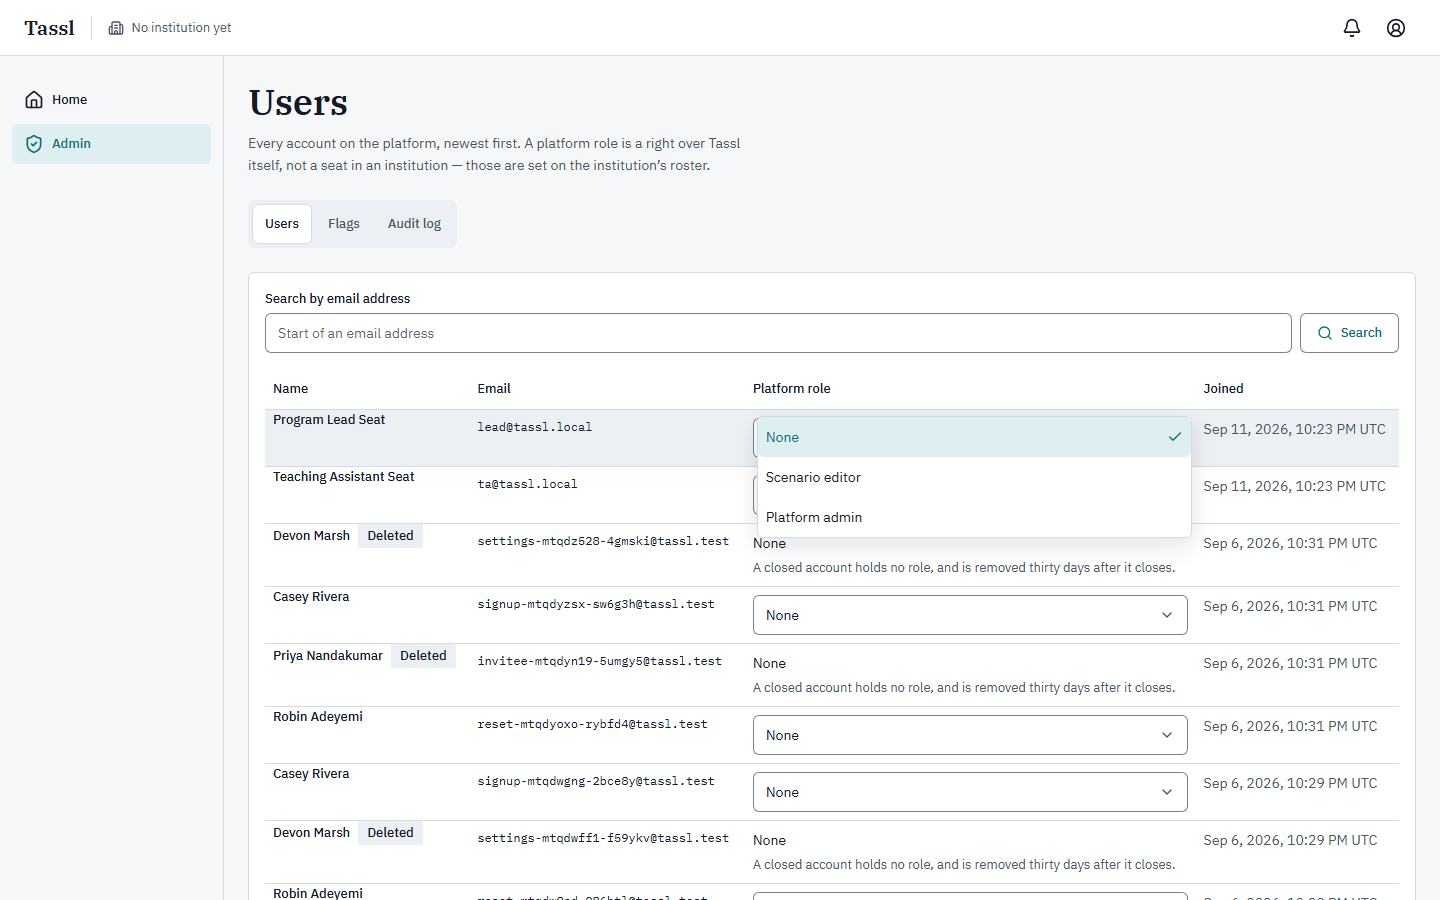
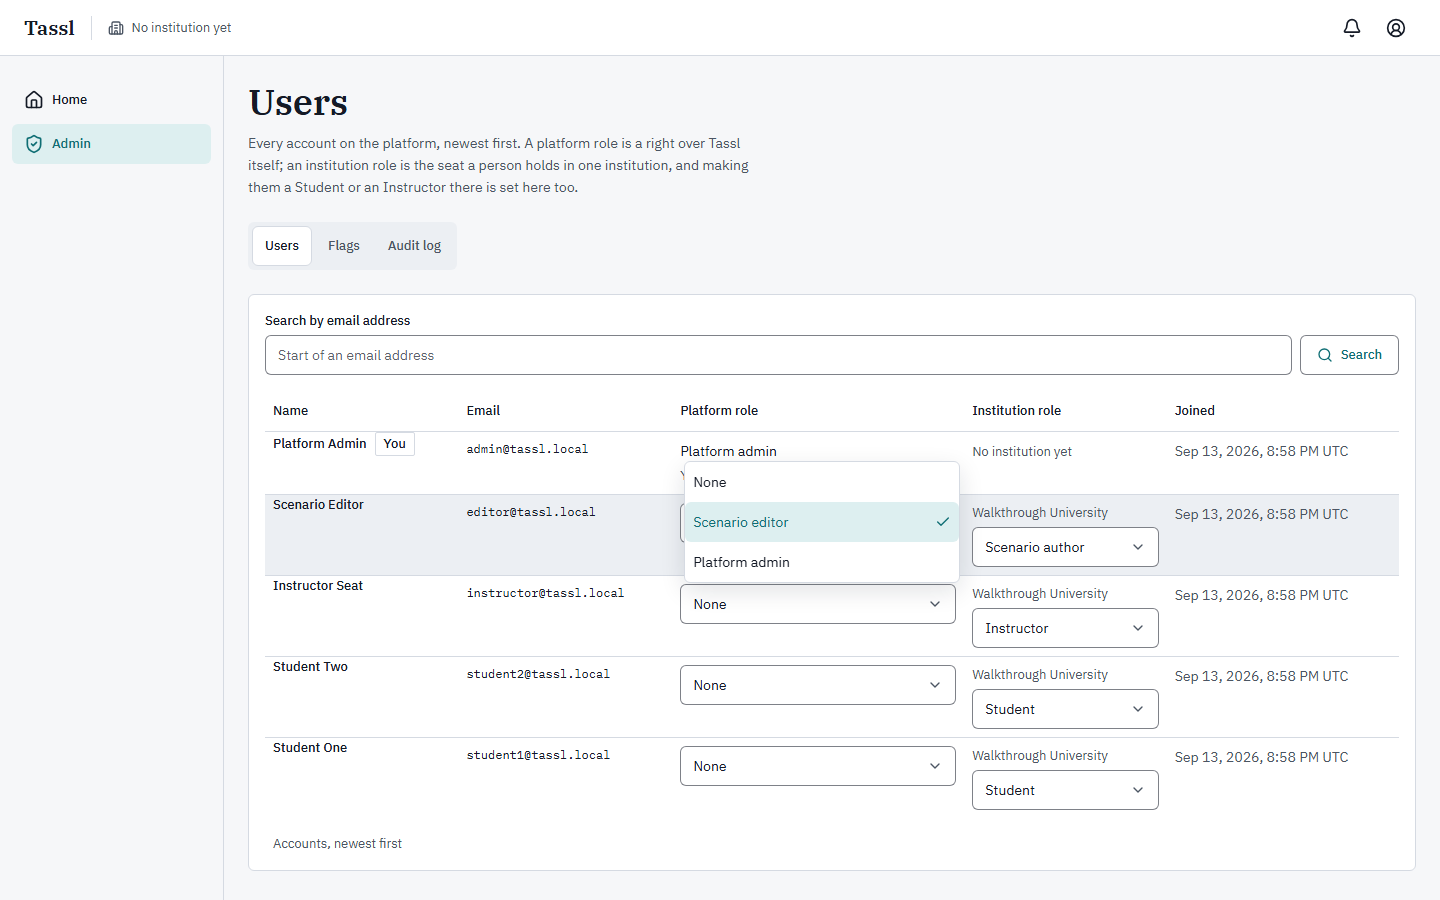
docs(manual): the Users screen captures show the institution role column
Claude-Session: https://claude.ai/code/session_01JZaqHidQuk3xERXR2qu7UB

diff --git a/scripts/manual-capture.ts b/scripts/manual-capture.ts
@@ -436,6 +436,15 @@ async function extrasLane(): Promise<void> {
   } else {
     problems.push('admin: no platform-role combobox on /admin/users')
   }
+  const seatBox = page.getByRole('combobox', { name: /^Institution role for / }).first()
+  if (await seatBox.isVisible().catch(() => false)) {
+    await seatBox.click()
+    await page.waitForTimeout(900)
+    await shot('admin-institution-role-options')
+    await dismissOverlays()
+  } else {
+    problems.push('admin: no institution-role combobox on /admin/users')
+  }
   const search = page
     .getByRole('searchbox')
     .or(page.getByLabel(/Search/))

diff --git a/docs/manual/03-admin.md b/docs/manual/03-admin.md
@@ -461,6 +461,8 @@ they already belong to. It is a different question from the platform role beside
 different control: someone with seats in two institutions has two dropdowns, one under each
 institution's name.
 
+![The Users screen with an Institution role dropdown open under Walkthrough University, showing the two options Student and Instructor](screenshots/admin/admin-institution-role-options.png)
+
 1. Find the account, as above.
 2. Open the dropdown under the institution's name in that row's **Institution role** cell. Its
    accessible name is "Institution role for" the account's name "at" the institution's name. It
